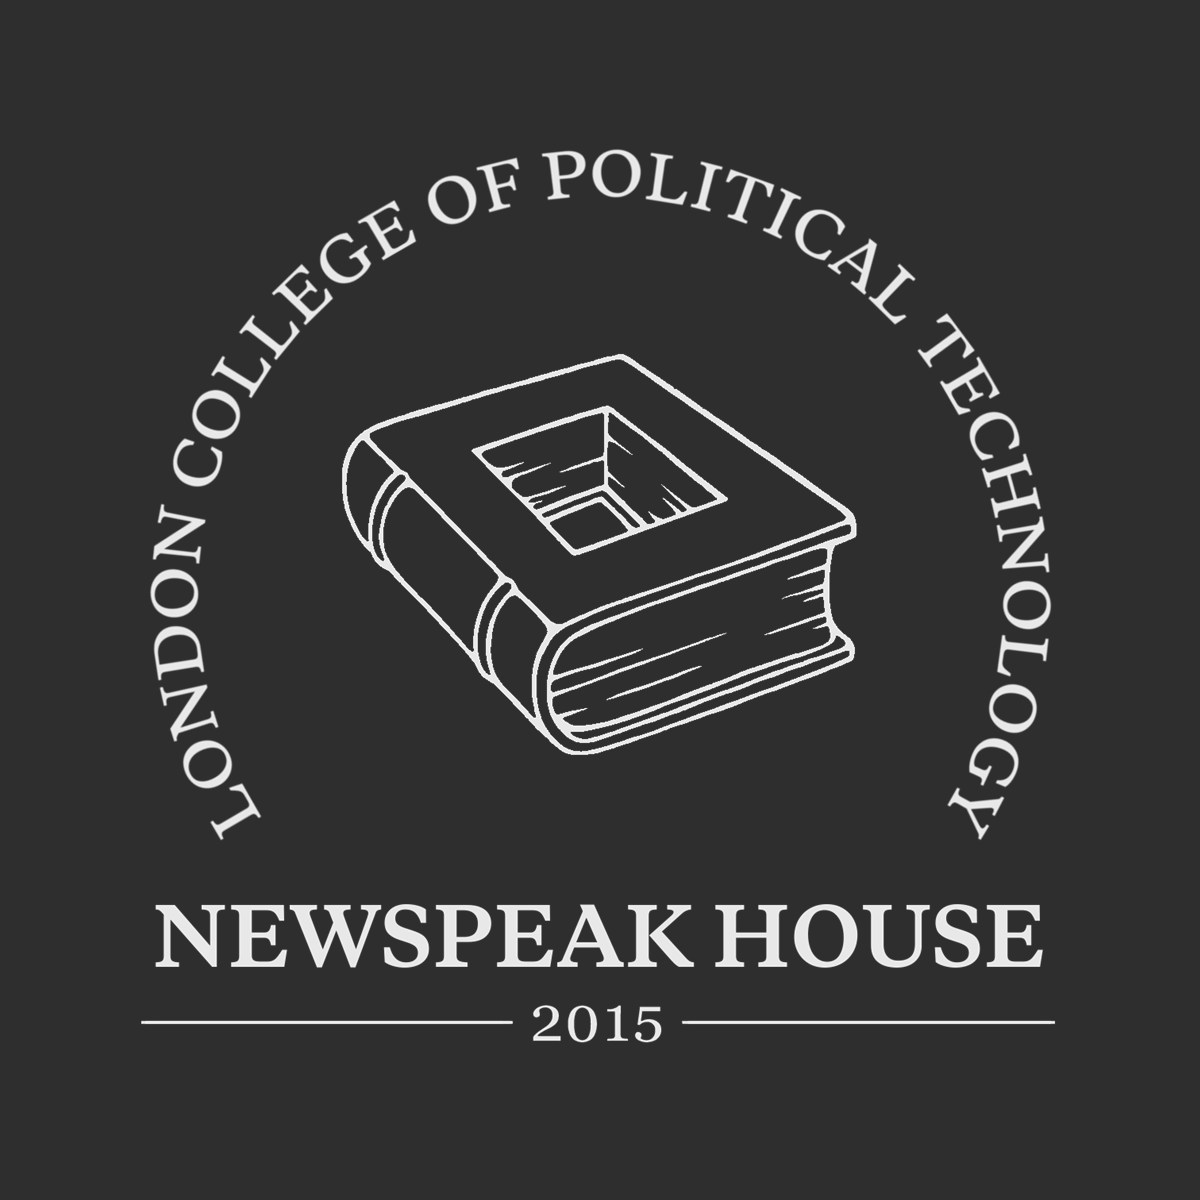
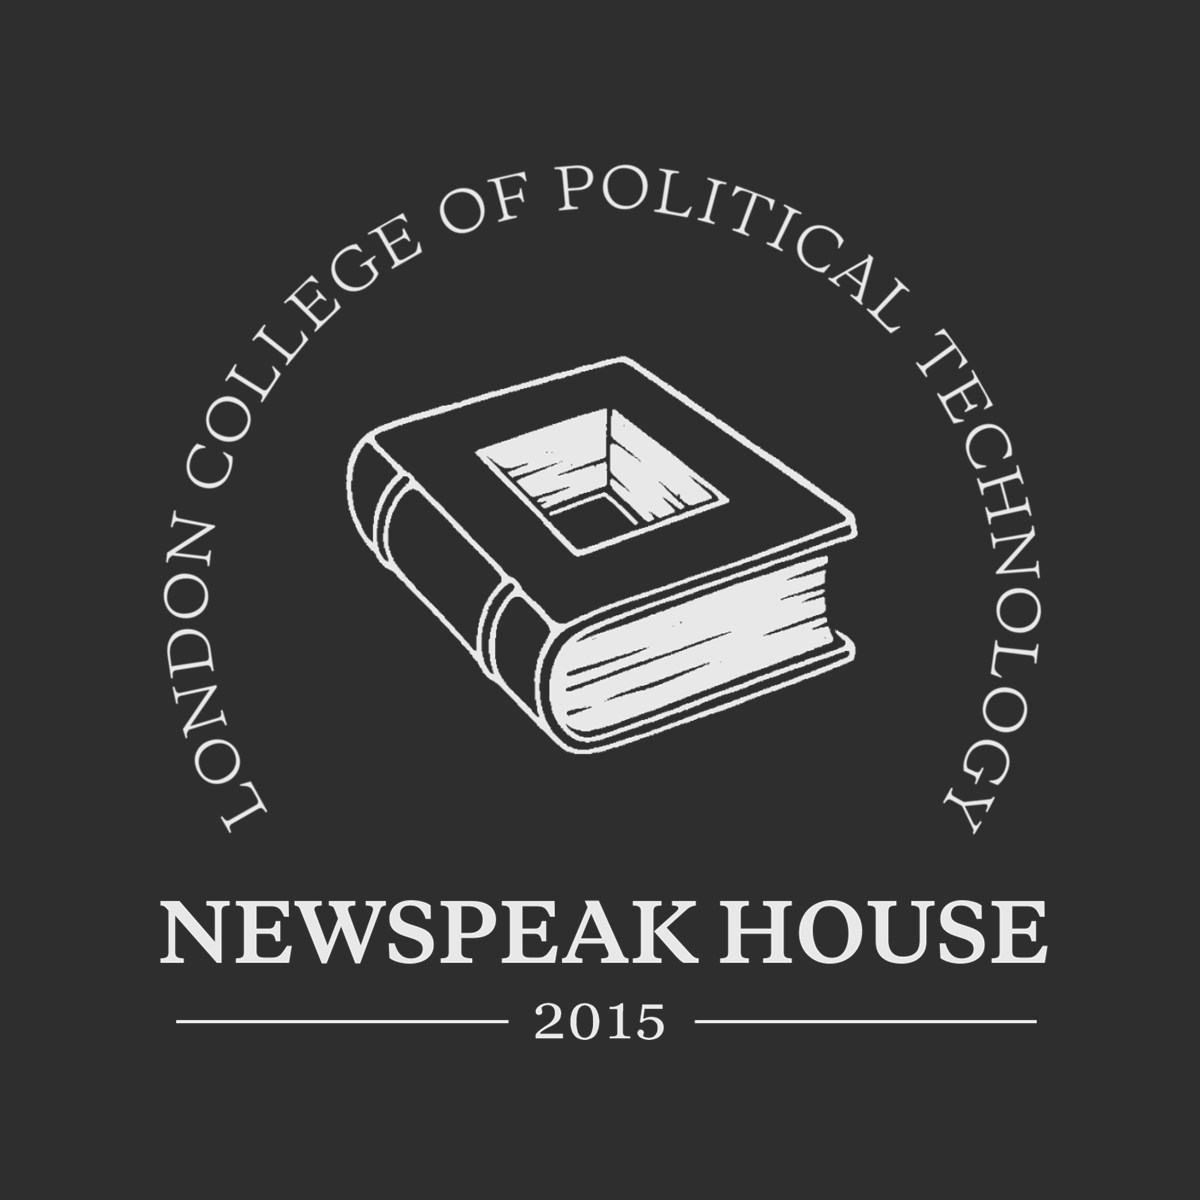
Social card built from the dark-background roundel variant
The card was generated from lcpt-logo.png (light-background artwork,
book pages transparent) so the pages read charcoal — wrong. The plaque
masks lcpt-logo-white.png, whose pages are solid-filled and so render
paper-grey. Rebuild from that file; the card now matches the plaque.

diff --git a/CLAUDE.md b/CLAUDE.md
@@ -30,6 +30,6 @@ Homepage: the **plaque** (`.home-plaque`, masthead band) contains the **plaque r
 
 Other: **event search** (live filter on /events), **email decode** (client-side de-obfuscation of addresses), **plates** and **ink shadows** (image treatments, see above).
 
-Social previews: the **event share link** (`/events?id=N#event-N`) is the URL format that yields a per-event preview card — bare `/#event-N` fragments never reach the server, so they can't. The **event preview tags** (og: meta in `events/index.html.haml`, selected event resolved in `EventsController#index` across upcoming *and* past events) render the event name as title and "date • hosted by X at Newspeak House" as description. The **social card** (`lcpt-roundel-social-card.jpg`, 1200×1200) is the roundel in plaque colours — paper-grey `#e8e8e8` art on charcoal `#2e2e2e`, matching the homepage masthead — used as og:image site-wide (transparent PNGs render unpredictably in some apps; regenerate flattened if the roundel or plaque colours change). The **toc share-link intercept** (in `application.js`) lets homepage TOC links carry the event share link as href while a normal click still scrolls in place (and pushes the share link into the address bar).
+Social previews: the **event share link** (`/events?id=N#event-N`) is the URL format that yields a per-event preview card — bare `/#event-N` fragments never reach the server, so they can't. The **event preview tags** (og: meta in `events/index.html.haml`, selected event resolved in `EventsController#index` across upcoming *and* past events) render the event name as title and "date • hosted by X at Newspeak House" as description. The **social card** (`lcpt-roundel-social-card.jpg`, 1200×1200) is the roundel in plaque colours — paper-grey `#e8e8e8` art on charcoal `#2e2e2e`, matching the homepage masthead — used as og:image site-wide (transparent PNGs render unpredictably in some apps; regenerate flattened if the roundel or plaque colours change). Its source MUST be `lcpt-logo-white.png` — the dark-background artwork variant with solid-filled book pages, the same file the plaque's CSS mask uses; `lcpt-logo.png` is the light-background variant whose pages let the ground show through and read black on charcoal. The **toc share-link intercept** (in `application.js`) lets homepage TOC links carry the event share link as href while a normal click still scrolls in place (and pushes the share link into the address bar).
 
 Feedback (/feedback): the **feedback form** is native (house-styled inputs; the old Google Form iframe is gone). The **feedback relay** (`GoogleFormRelay` + `HomeController#submit_feedback`) posts submissions server-side to the Google Form's formResponse endpoint and verifies Google's confirmation message, so responses still land in the same spreadsheet. The **feedback fallback email** (`AdminMailer#feedback_fallback_email`) fires when Google doesn't confirm — it carries the full submission so nothing is lost. If the Google Form is ever edited, the entry.* field mapping in `HomeController` must be updated (procedure in the code comments) and a test submission made.
